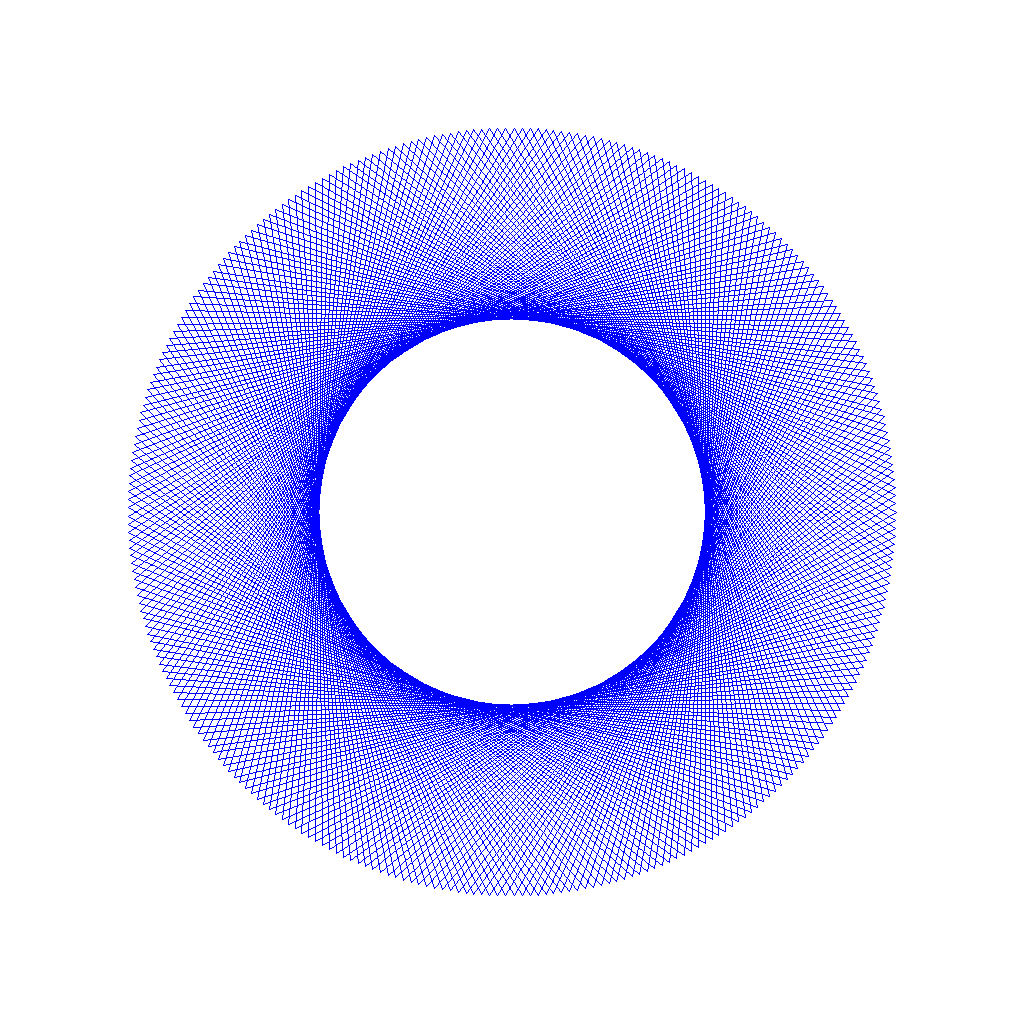
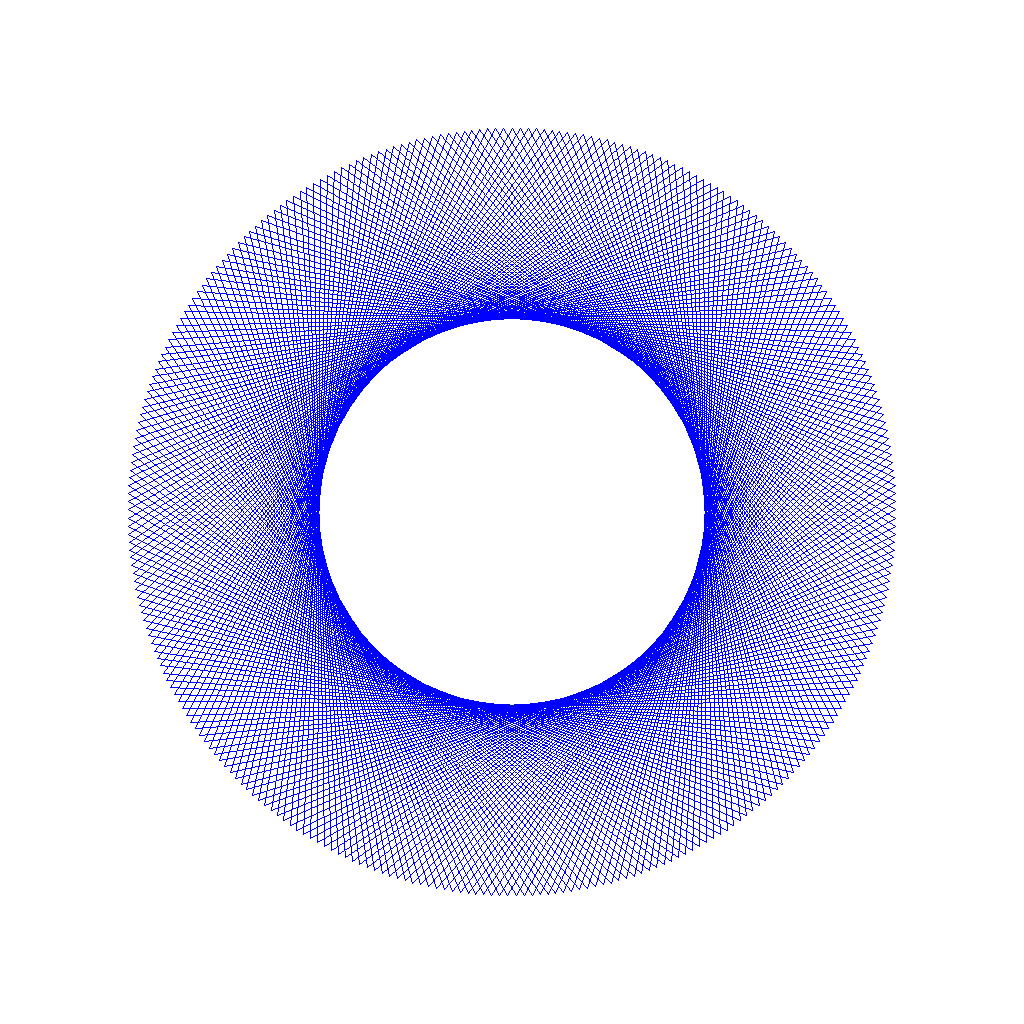
分数の形で入力した時に2以下の値を入力出来た問題を修正

Changed region(s): [[0.125, 0.125, 0.875, 0.875]]

diff --git a/polygon.py b/polygon.py
@@ -25,7 +25,14 @@ def input_num():
                     os.system('cls')
                     print("※分母は0より大きい値を入力してください。(m>0)")
                 else:
-                    break
+                    frac = Fraction(num)
+                    n    = frac.numerator   #分子
+                    m    = frac.denominator #分母
+                    if n / m <= 2.0 :
+                        os.system('cls')
+                        print("※2より大きい値を入力してください。")
+                    else :
+                        break
             elif re.match("^.+?/.+?$",num) != None :
                 os.system('cls')
                 print("※分子と分母は整数で入力してください。")
@@ -57,6 +64,13 @@ def poly_draw(n,m):
     # 直線の描画
     # draw.line([(0,1024), (1024,0)], fill = (0,0,255), width = 5)
 
+    # 最初の点の角度
+    if( n == 4):
+        first_ang = -45
+    else:
+        first_ang = -90
+
+
     # 円の中心と円周の半径
     cx = img.width  * 0.5
     cy = img.height * 0.5
@@ -70,8 +84,8 @@ def poly_draw(n,m):
     for i in range( n + 1 ):
         theta = 360 / n
         # print(str((i*m)%n))
-        xy.append(cx + r * math.cos( ( i * m ) % n * theta * math.pi / 180 ) )  #x
-        xy.append(cy + r * math.sin( ( i * m ) % n * theta * math.pi / 180 ) )  #y
+        xy.append(cx + r * math.cos( ( first_ang + ( i * m ) % n * theta ) * math.pi / 180))  #x
+        xy.append(cy + r * math.sin( ( first_ang + ( i * m ) % n * theta ) * math.pi / 180))  #y
 
     # draw.point(xy, fill=(255,0,0))
     # 点と点の間を線で結んでいく
